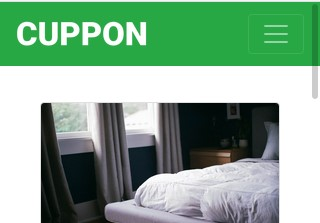
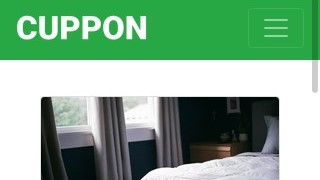
modificaciones en margenes en las distintas secciones, ajuste de tooltip, footer y seccion de iconos

diff --git a/index.html b/index.html
@@ -59,9 +59,10 @@
 </section>
 
 <!--Descripción-->
-<section class="container">
-  <h4 class="font-weight-bold txt">Descripción sobre mi</h4>
-  <div class="row">
+<section class="container description">
+  <h4 class="font-weight-bold txt">Sobre mi</h4>
+  <hr class="hr-2">
+  <div class="row desc-m">
     <div class="col-6 nav-txt">Lorem ipsum dolor sit amet, consectetur adipisicing elit, sed do eiusmod tempor incididunt ut labore et dolore magna aliqua. Ut enim ad minim veniam, quis nostrud exercitation ullamco laboris nisi ut aliquip ex ea commodo consequat. Duis aute irure dolor in reprehenderit in voluptate velit esse cillum dolore eu fugiat nulla pariatur. Excepteur sint occaecat cupidatat non proident, sunt in culpa qui officia deserunt mollit anim id est laborum.</div>
     <div class="col-6 nav-txt">Lorem ipsum dolor sit amet, consectetur adipisicing elit, sed do eiusmod tempor incididunt ut labore et dolore magna aliqua. Ut enim ad minim veniam, quis nostrud exercitation ullamco laboris nisi ut aliquip ex ea commodo consequat. Duis aute irure dolor in reprehenderit in voluptate velit esse cillum dolore eu fugiat nulla pariatur. Excepteur sint occaecat cupidatat non proident, sunt in culpa qui officia deserunt mollit anim id est laborum.</div>
     </div>
@@ -70,7 +71,7 @@
 <!--Mi experiencia-->
 <section id="experiencia" class="mi-experiencia">
     <h2 class="font-weight-bold m-exp">MI EXPERIENCIA</h2>
-    <hr>
+    <hr class="hr-3">
     <section class="m-e-align">
       <div class="container">
         <div class="row al-center">
@@ -97,25 +98,25 @@
 <!--últimos trabajos-->
 <section id="trabajos" class="margin-card">
   <h2 class="font-weight-bold ut-color">MIS ÚLTIMOS TRABAJOS</h2>
-  <hr>
+  <hr class="hr-4">
   <section>
     <div class="card-deck">
 <div class="card">
-  <img src="assets/img/meet-and-coffe.jpg" class="card-img-top" alt="meet-and-coffe">
+  <img src="assets/img/meet-and-coffe.jpg" class="card-img-top card-m" alt="meet-and-coffe">
   <div class="card-body">
     <h5 class="card-title">Meet&Coffe</h5>
     <p class="card-text">This is a wider card with supporting text below as a natural lead-in to additional content. This content is a little bit longer.</p>
   </div>
 </div>
 <div class="card">
-  <img src="assets/img/iguana-page.jpg" class="card-img-top" alt="iguana-page">
+  <img src="assets/img/iguana-page.jpg" class="card-img-top card-m" alt="iguana-page">
   <div class="card-body">
     <h5 class="card-title">Iguana Page</h5>
     <p class="card-text">This card has supporting text below as a natural lead-in to additional content.</p>
   </div>
 </div>
 <div class="card">
-  <img src="assets/img/suricata.jpg" class="card-img-top" alt="suricata">
+  <img src="assets/img/suricata.jpg" class="card-img-top card-m" alt="suricata">
   <div class="card-body">
     <h5 class="card-title">Suricata</h5>
     <p class="card-text">This is a wider card with supporting text below as a natural lead-in to additional content. This card has even longer content than the first to show that equal height action.</p>
@@ -124,24 +125,24 @@
 </div>
   </section>
 
-  <section>
+  <section class="m3-card">
     <div class="card-deck">
 <div class="card">
-  <img src="assets/img/cuppon.jpg" class="card-img-top" alt="cuppon">
+  <img src="assets/img/cuppon.jpg" class="card-img-top card-m" alt="cuppon">
   <div class="card-body">
     <h5 class="card-title">Cuppon</h5>
     <p class="card-text">This is a wider card with supporting text below as a natural lead-in to additional content. This content is a little bit longer.</p>
   </div>
 </div>
 <div class="card">
-  <img src="assets/img/ricomida.jpg" class="card-img-top" alt="ricomida">
+  <img src="assets/img/ricomida.jpg" class="card-img-top card-m" alt="ricomida">
   <div class="card-body">
     <h5 class="card-title">Ricomida</h5>
     <p class="card-text">This card has supporting text below as a natural lead-in to additional content.</p>
   </div>
 </div>
 <div class="card">
-  <img src="assets/img/olivia-ros.jpg" class="card-img-top" alt="oliva-ros">
+  <img src="assets/img/olivia-ros.jpg" class="card-img-top card-m" alt="olivia-ros">
   <div class="card-body">
     <h5 class="card-title">Olivia Ros</h5>
     <p class="card-text">This is a wider card with supporting text below as a natural lead-in to additional content. This card has even longer content than the first to show that equal height action.</p>
@@ -154,12 +155,12 @@
 <!--Contacto-->
 <section id="contacto" class="contacto">
   <h2 class="font-weight-bold">CONTACTO</h2>
-  <hr>
+  <hr class="hr-3">
   <p class="p-contacto">¿Quieres saber más sobre mi?</p>
   <button type="button" class="btn btn-dark btn btn-secondary button-m" data-toggle="tooltip" data-placement="bottom" title="Enviar por correo">Comenzar</button>
 </section>
 
-
+<!--Footer-->
 <footer class="footer n-f-color" >
   <section>
     <h3 class="f-al">Bernarda</h3>

diff --git a/assets/css/style.css b/assets/css/style.css
@@ -18,6 +18,11 @@ h3 {
   font-size: 40px;
 }
 
+h5 {
+  font-family: 'Architects Daughter', cursive;
+  font-size: 400;
+}
+
 p {
   font-family: 'Architects Daughter', cursive;
   font-size: 400;
@@ -62,12 +67,24 @@ p {
   border: 1px solid #fefefe;
 }
 /*Descripción*/
+.description {
+  margin-top: 50px;
+  margin-bottom: 50px;
+}
+
 .txt {
   font-family: 'Cedarville Cursive', cursive;
   font-weight: 400;
   text-align: center;
   font-size: 30px;
 }
+.hr-2 {
+  border-top: 2px solid;
+  color: #00303a;
+  margin-left: 510px;
+  margin-right: 510px;
+}
+
 
 /*mi experiencia*/
 .mi-experiencia{
@@ -87,6 +104,13 @@ height: 400px;
   font-size: 25px;
 }
 
+.hr-3 {
+  margin-bottom: 50px;
+  border-top: 2px solid;
+  color: #00303a;
+  margin-left: 630px;
+  margin-right: 630px;
+}
 /*últimos trabajos*/
 .margin-card {
   padding-left: 150px;
@@ -96,9 +120,33 @@ height: 400px;
   background-color: #148775;
 }
 
+.m3-card {
+  margin-top: 45px;
+}
+
 .ut-color {
   color: #fefefe;
   margin-bottom: 15px;
+}
+
+.card-m {
+
+}
+
+.m-e-align section{
+  text-align: center;
+  display: inline-block;
+}
+
+.al-center {
+  text-align: center;
+}
+.hr-4 {
+  border-top: 2px solid;
+  color: #fefefe;
+  margin-left: 483px;
+  margin-right: 483px;
+  margin-bottom: 65px;
 }
 
 /*Contacto*/
@@ -136,4 +184,12 @@ height: 400px;
 .icons {
   font-size: 40px;
   padding-left: 400px;
+}
+
+.color-a {
+color: #fefefe;
+}
+
+.color-a:hover {
+  color: #148775;
 }

diff --git a/assets/js/script.js b/assets/js/script.js
@@ -1,0 +1,3 @@
+$(function () {
+$('[data-toggle="tooltip"]').tooltip()
+})
